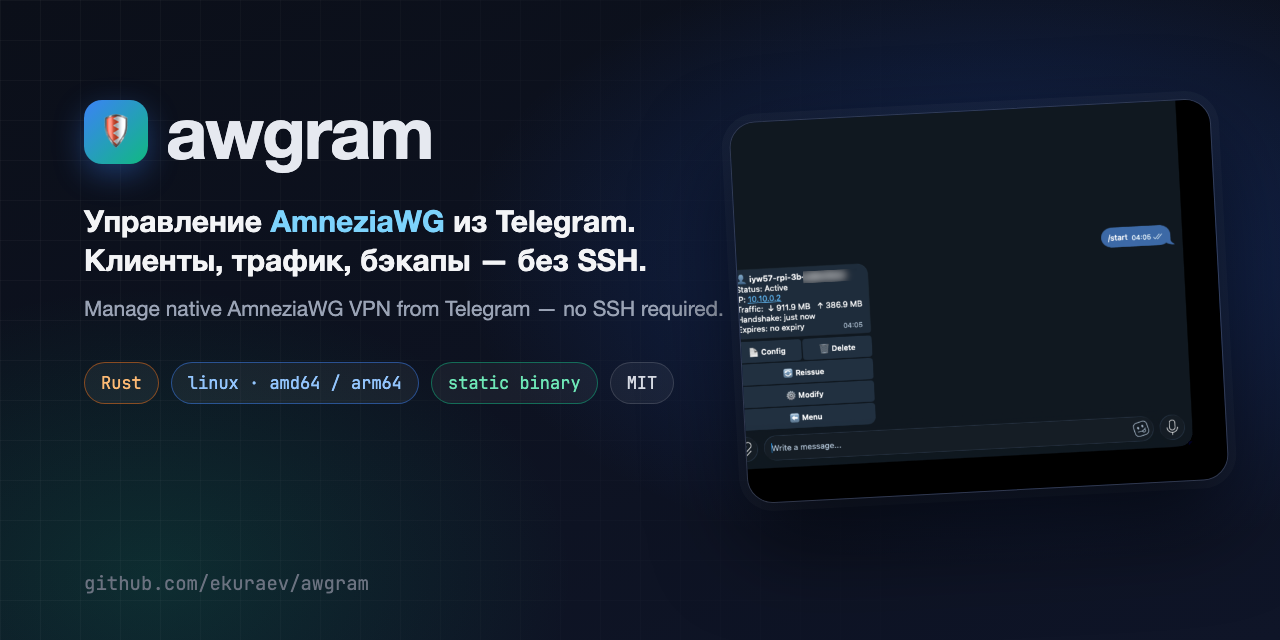
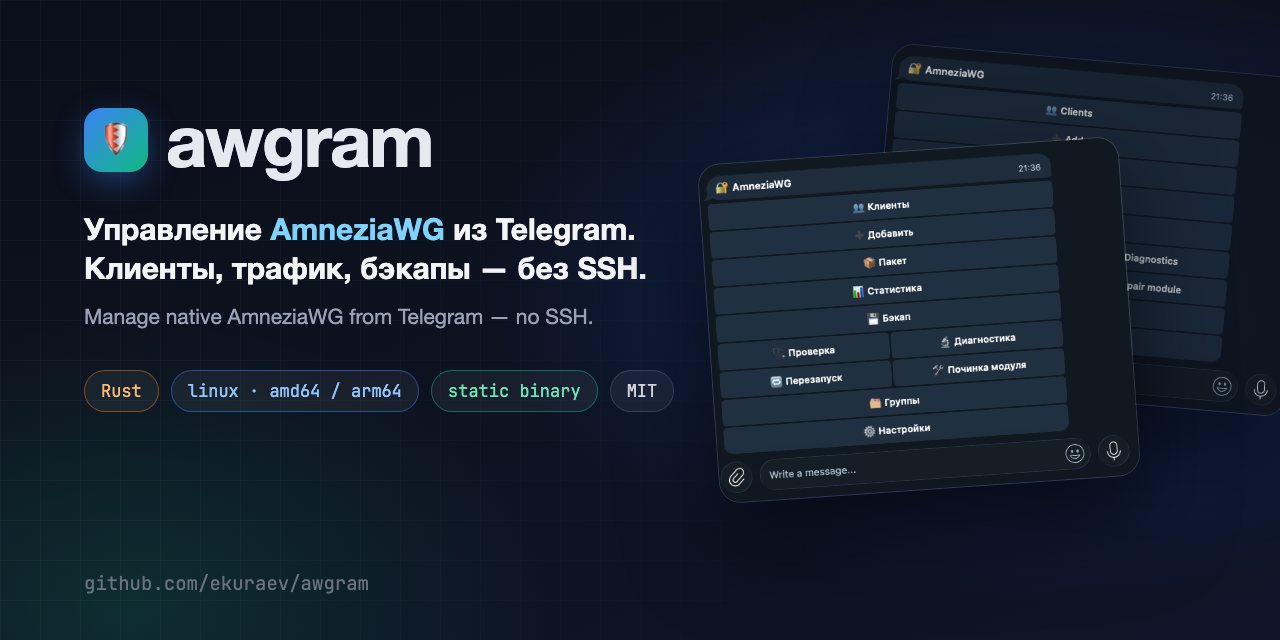
docs(media): демо-видео и скриншоты меню вместо анимации, новый social preview
Hero в README RU/EN — mp4-плеер с обзором возможностей (вложение GitHub)
и два скриншота главного меню (ru/en) под ним. Старый awgram-tg.webp
удалён. Social preview собран на основе тех же скриншотов.

diff --git a/README.md b/README.md
@@ -15,8 +15,11 @@
 Telegram-бот на Rust для управления клиентами [AmneziaWG](https://amnezia.org/) прямо
 с телефона: добавить/удалить клиента, посмотреть список и трафик — без SSH.
 
+https://github.com/user-attachments/assets/35af60f4-c7d8-44d5-9c90-bcd06b20c864
+
 <p align="center">
-  <img src="docs/media/awgram-tg.webp" alt="awgram в Telegram" width="420">
+  <img src="docs/media/menu-ru.png" alt="Главное меню awgram, русский" width="360">
+  <img src="docs/media/menu-en.png" alt="Главное меню awgram, английский" width="360">
 </p>
 
 **awgram управляет нативным AmneziaWG** — kernel-модулем для Linux

diff --git a/README.en.md b/README.en.md
@@ -16,8 +16,11 @@ A Rust Telegram bot for managing [AmneziaWG](https://amnezia.org/) clients
 straight from your phone: add/remove a client, view the list and traffic —
 no SSH required.
 
+https://github.com/user-attachments/assets/35af60f4-c7d8-44d5-9c90-bcd06b20c864
+
 <p align="center">
-  <img src="docs/media/awgram-tg.webp" alt="awgram in Telegram" width="420">
+  <img src="docs/media/menu-ru.png" alt="awgram main menu, Russian" width="360">
+  <img src="docs/media/menu-en.png" alt="awgram main menu, English" width="360">
 </p>
 
 **awgram manages native AmneziaWG** — the Linux kernel module (set up by the
